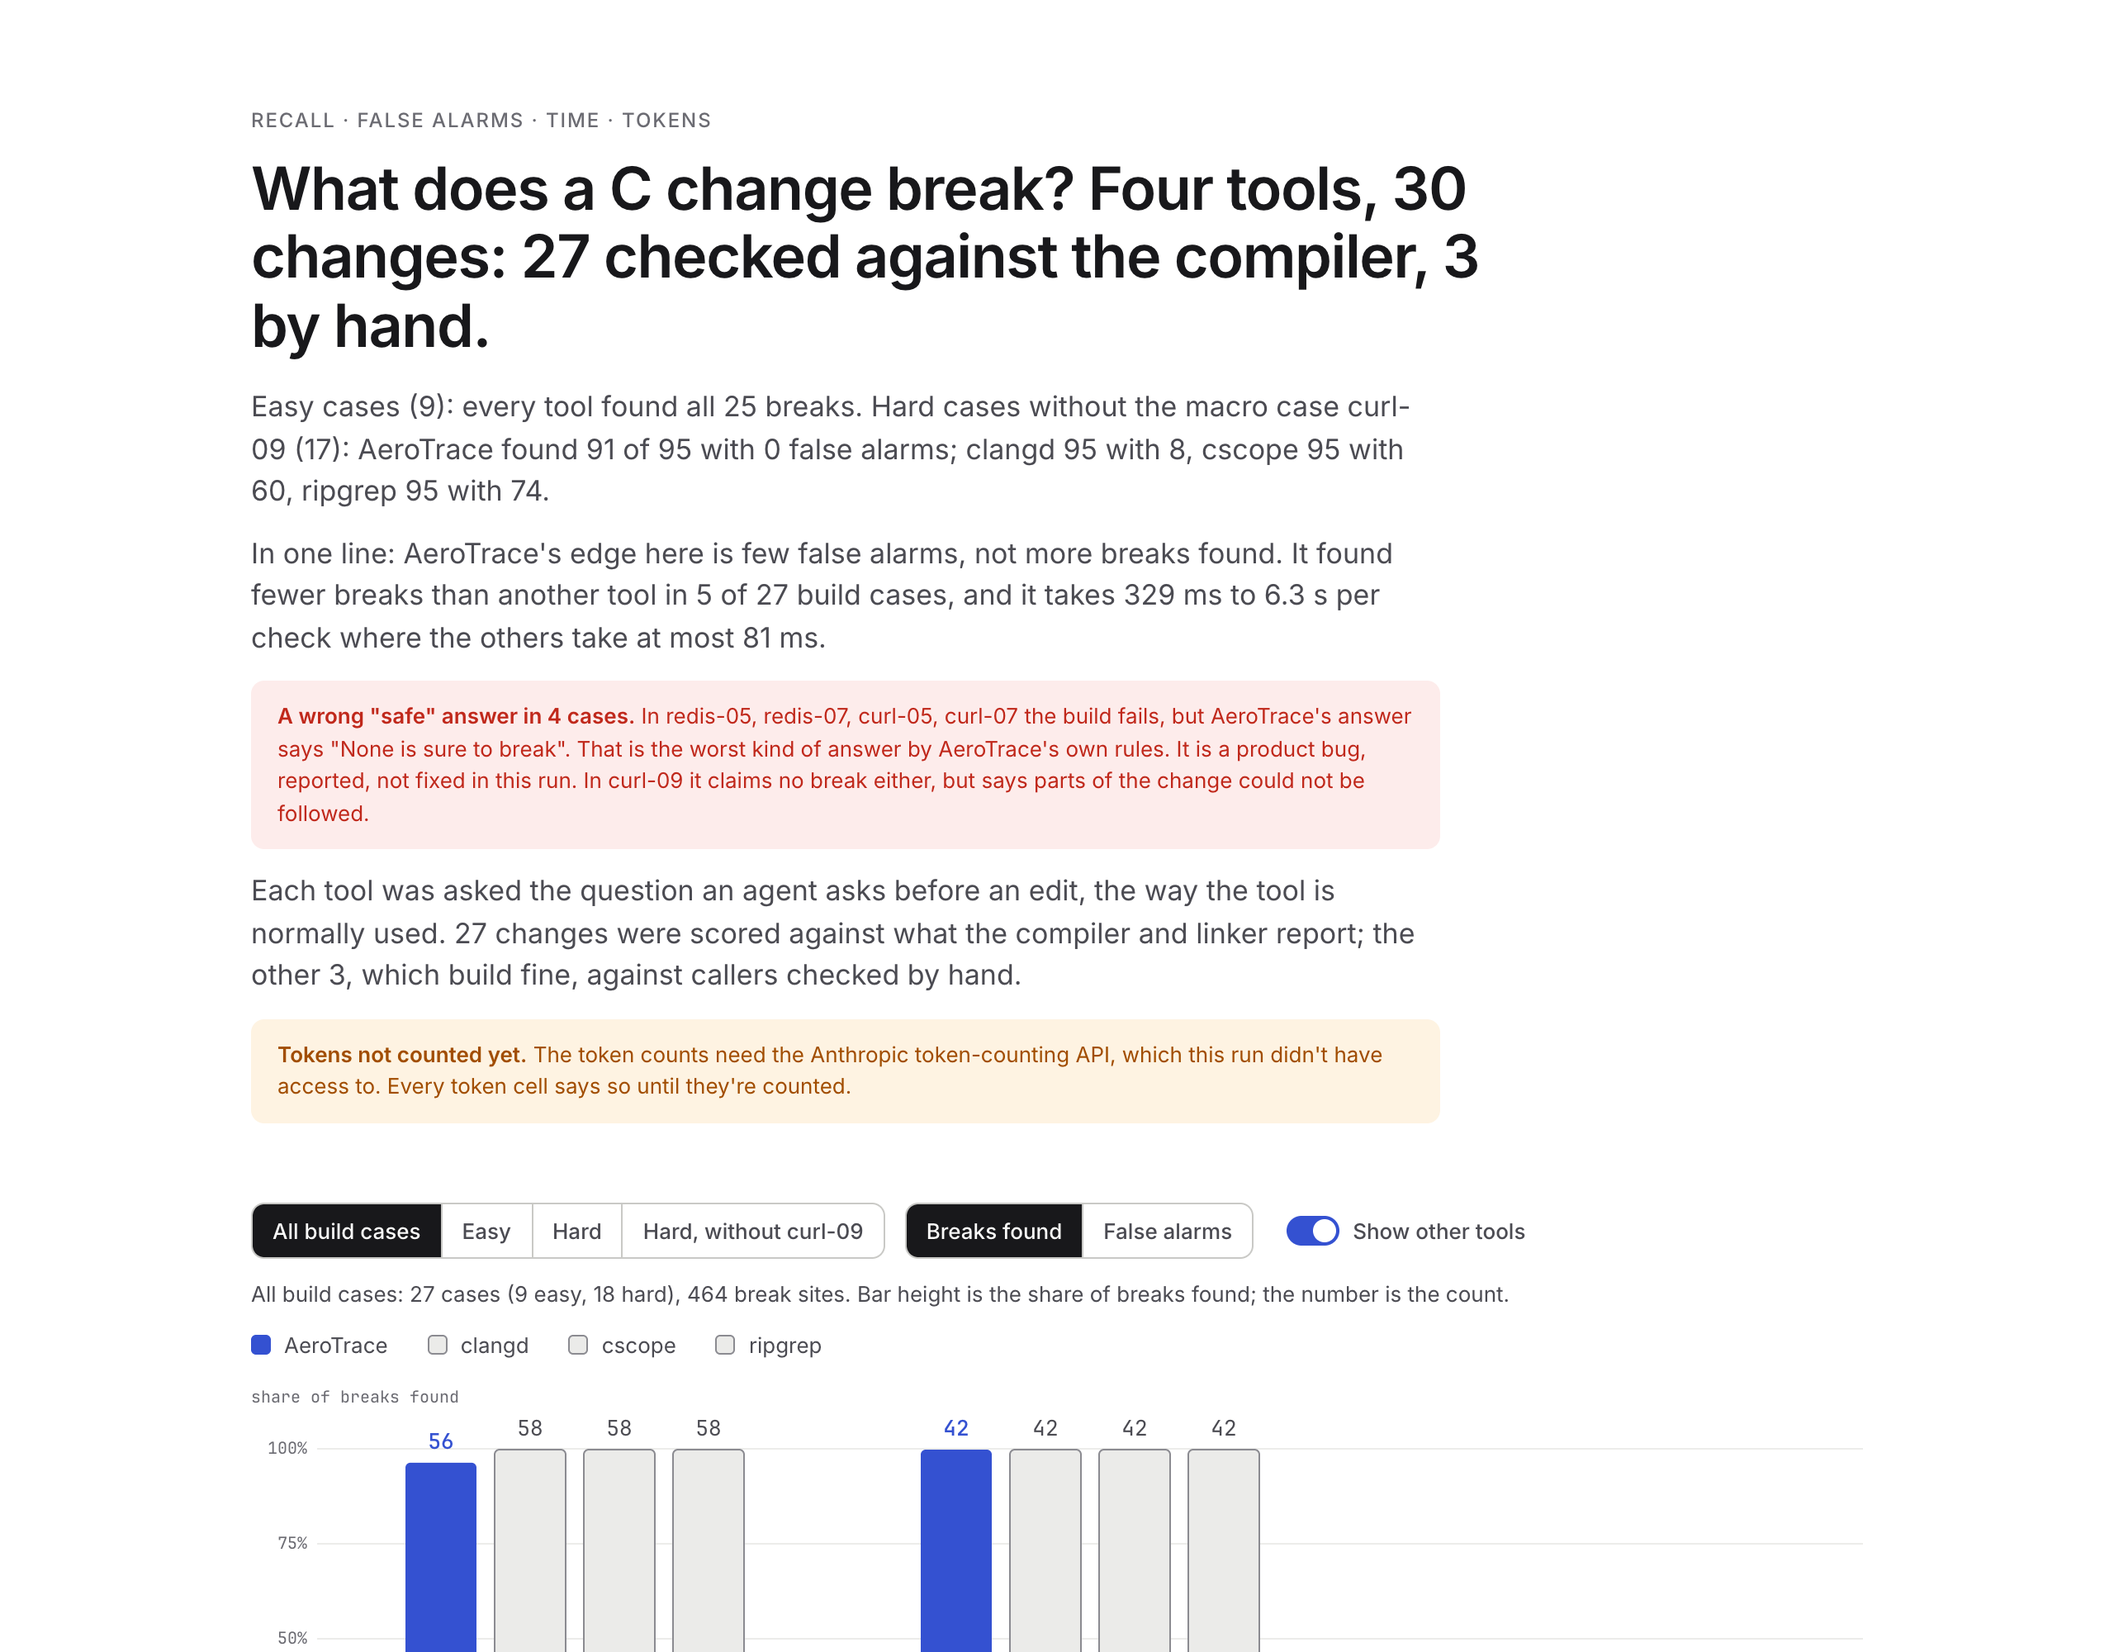
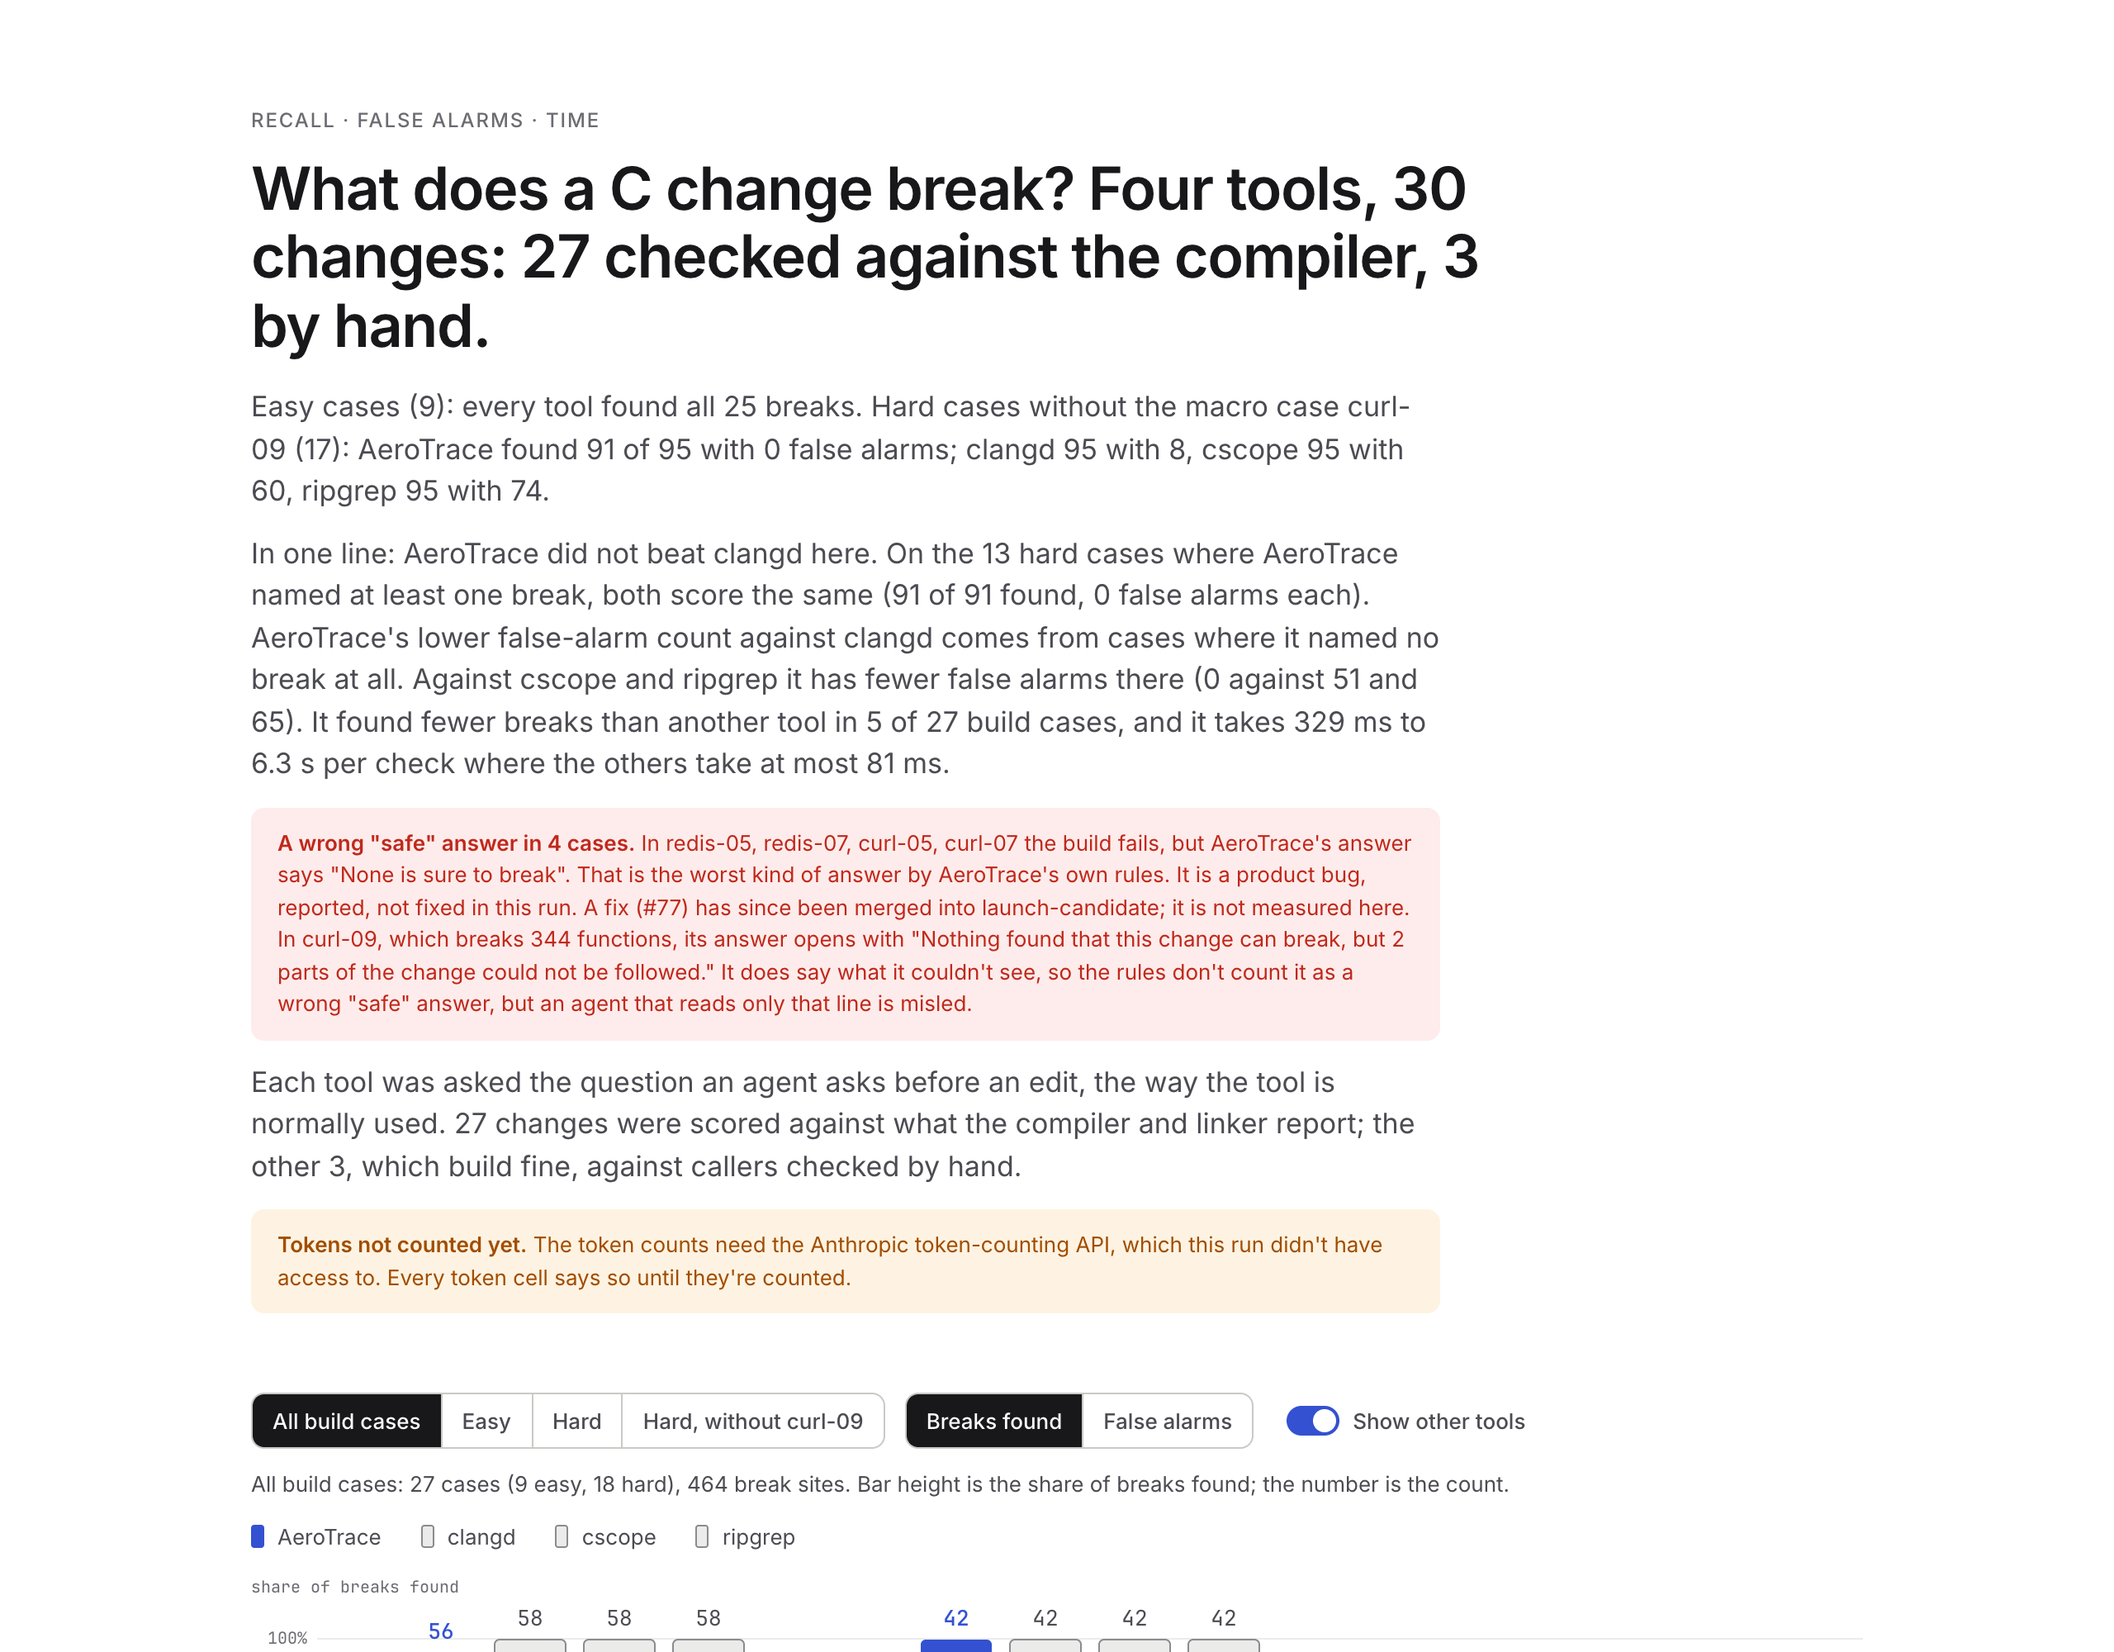
fix(ui): skeptic review: BREAKS nodes keep their names, real dates on the demo checks, QA report

Changed region(s): [[0.0938, 0.31, 0.7188, 1.0], [0.4688, 0.992, 0.5938, 1.0], [0.125, 0.93, 0.1562, 0.961]]

diff --git a/src/aerotrace/ui/web/graph.js b/src/aerotrace/ui/web/graph.js
@@ -288,6 +288,20 @@
         if (r.x < 4 || r.y < 4 || r.x + r.w > w - 4 || r.y + r.h > h - 4) continue;
         if (!occupied.hits(r)) spot = r;
       }
+      var lead = false;
+      if (!spot && n.group === "breaks") {  // a BREAKS node keeps its name: try spots further out
+        [2.2, 3.4, 4.8].forEach(function (k) {
+          if (spot) return;
+          var far = [[q[0] - tw / 2, q[1] + o * k], [q[0] - tw / 2, q[1] - o * k - th], [q[0] + o * k, q[1] - th / 2],
+            [q[0] - o * k - tw, q[1] - th / 2], [q[0] + o * k * 0.7, q[1] + o * k * 0.7], [q[0] - o * k * 0.7 - tw, q[1] + o * k * 0.7],
+            [q[0] + o * k * 0.7, q[1] - o * k * 0.7 - th], [q[0] - o * k * 0.7 - tw, q[1] - o * k * 0.7 - th]];
+          for (var j = 0; j < far.length && !spot; j++) {
+            var r2 = { x: far[j][0] - 3, y: far[j][1] - 1, w: tw + 6, h: th + 2 };
+            if (r2.x < 4 || r2.y < 4 || r2.x + r2.w > w - 4 || r2.y + r2.h > h - 4) continue;
+            if (!occupied.hits(r2)) { spot = r2; lead = true; }
+          }
+        });
+      }
       var forced = false;
       if (!spot && must) {  // always shown, kept inside the canvas
         var fx = Math.max(4, Math.min(w - tw - 10, cands[0][0] - 3)), fy = Math.max(4, Math.min(h - th - 6, cands[0][1] - 1));
@@ -295,9 +309,14 @@
         forced = true;
       }
       if (!spot) { hidden++; return; }
-      rects.push({ x: spot.x, y: spot.y, w: spot.w, h: spot.h, forced: forced });
+      rects.push({ x: spot.x, y: spot.y, w: spot.w, h: spot.h, forced: forced, id: n.id, group: n.group });
       occupied.add(spot);
       placed++;
+      if (lead) {  // a thin line from the node to its label, which sits further out
+        var lx = Math.max(spot.x, Math.min(q[0], spot.x + spot.w)), ly = Math.max(spot.y, Math.min(q[1], spot.y + spot.h));
+        g.strokeStyle = "#ffb3ab"; g.globalAlpha = 0.6; g.lineWidth = 1; g.setLineDash([]);
+        g.beginPath(); g.moveTo(q[0], q[1]); g.lineTo(lx, ly); g.stroke(); g.globalAlpha = 1;
+      }
       g.fillStyle = "rgba(11,13,16,0.82)"; g.fillRect(spot.x, spot.y, spot.w, spot.h);
       g.fillStyle = n.group === "breaks" ? "#ffb3ab" : n.group === "may_break" ? "#fcd57a" : c.label;
       g.textAlign = "left"; g.textBaseline = "middle"; g.fillText(label, spot.x + 3, spot.y + spot.h / 2 + 0.5);
@@ -305,6 +324,7 @@
     this.hits = hits;
     this.stats.labels = placed;
     this.stats.labelRects = rects;
+    this.stats.breaksOnScreen = want.filter(function (p) { return p.n.group === "breaks"; }).length;
     this.stats.hiddenLabels = hidden;
     if (moving && !this._settle) this._settle = setTimeout(function () { self._settle = 0; self.draw(); }, 170);
     this.stats.frames++;

diff --git a/tests/ui/test_dashboard_browser.py b/tests/ui/test_dashboard_browser.py
@@ -47,7 +47,14 @@ def _repo(tmp: Path, checks: dict[str, dict]) -> Path:
 
 @pytest.fixture
 def dash(tmp_path: Path) -> Iterator[tuple[server.DashboardServer, Path]]:
-    root = _repo(tmp_path, {"0001-aaaa0001": samples.big(1000), "0002-aaaa0002": samples.big(5000, seed=3)})
+    root = _repo(
+        tmp_path,
+        {
+            "0001-aaaa0001": samples.big(1000),
+            "0002-aaaa0002": samples.big(5000, seed=3),
+            "0003-aaaa0003": samples.sample(),
+        },
+    )
     srv = server.DashboardServer(root)
     threading.Thread(target=srv.serve_forever, daemon=True).start()
     yield srv, root
@@ -122,6 +129,20 @@ def test_labels_never_overlap_or_cover_the_controls(browser, dash, cid: str, gro
             assert not any(hit(a, b) for b in rects[i + 1 :]), "two labels overlap"
             assert not any(hit(a, b) for b in boxes), "a label covers the legend, hint or tools"
     ctx.close()
+
+
+def test_every_breaks_node_has_its_name_when_there_is_room(browser, dash) -> None:
+    """A small check, like most real ones: every BREAKS node on screen is labelled (no overlap either)."""
+    srv, _ = dash
+    ctx, pg, _ = _page(browser, srv)
+    pg.goto(_base(srv) + "#/graph/0003-aaaa0003")
+    pg.wait_for_selector(".stage canvas", timeout=15000)
+    pg.wait_for_timeout(300)
+    stats = pg.evaluate("() => window.__aerotraceGraph")
+    ctx.close()
+    named = {r["id"] for r in stats["labelRects"] if r["group"] == "breaks"}
+    assert stats["breaksOnScreen"] > 0
+    assert len(named) == stats["breaksOnScreen"], "a BREAKS node on screen has no label"
 
 
 def test_a_slow_page_never_replaces_the_current_one(browser, dash) -> None:

diff --git a/bench/ui/launch_screenshots.py b/bench/ui/launch_screenshots.py
@@ -2,7 +2,7 @@
 
 Usage: uv run --with playwright python bench/ui/launch_screenshots.py <demo-repo>
 <demo-repo>: a repo with an AeroTrace index and saved checks (the Redis 8.10.3 demo: pinned release,
-indexed, three real `aerotrace check` answers on benchmark patches, see docs/launch/screenshots/README.md).
+indexed, three answers saved by `aerotrace check --patch` itself (#80), with their real dates, see docs/launch/screenshots/README.md).
 
 Refuses any page marked as sample data (`data-sample`), so no mockup can end up here. Every image in the
 manifest names the data it shows by sha256: the results page's `results.json`, or a snapshot of what
@@ -24,7 +24,7 @@ from aerotrace.ui import api, server
 ROOT = Path(__file__).resolve().parents[2]
 OUT = ROOT / "docs" / "launch" / "screenshots"
 RUN = ROOT / "bench" / "results" / "2026-11-24-c7df917"
-CHECK = "0003-redis-04"
+SHOWN = "patch redis-04.diff"  # the check shown in the Graph screenshot, found by its source
 
 
 def sha(data: bytes) -> str:
@@ -48,6 +48,7 @@ def main() -> None:
     demo = Path(sys.argv[1]).resolve()
     OUT.mkdir(parents=True, exist_ok=True)
     images = []
+    CHECK = next(c["id"] for c in api.checks(demo)["checks"] if c.get("source") == SHOWN)
     ov = snapshot("overview.json", {"overview": api.overview(demo), "runinfo": api.runinfo(demo)})
     gr = snapshot(f"graph-{CHECK}.json", api.graph(demo, CHECK))
     results_sha = sha((RUN / "results.json").read_bytes())

diff --git a/docs/design/dashboard/QA.md b/docs/design/dashboard/QA.md
@@ -1,0 +1,98 @@
+# Dashboard and results page: QA (Phase 4)
+
+What was checked before launch, how, and what is still open. Numbers come from real runs on the
+machine named under each one.
+
+## Tests
+
+| What | Where | Runs in CI |
+|---|---|---|
+| API answers: overview, checks, graph, node, blind spots, broken or missing index, no machine paths | `tests/ui/test_api.py`, `tests/ui/test_api_graph.py` | yes (`test`, Linux and macOS) |
+| Server: 127.0.0.1 only, token to per-port cookie, Host/Origin/Sec-Fetch-Site checks, CSP, GET/HEAD only, no files outside `ui/web/` | `tests/ui/test_server.py` | yes (`test`) |
+| Results page: built from the run, every number traced to `results.json`, wrong "safe" cases shown, CSP | `tests/ui/test_bench_page.py` | yes (`test`) |
+| Design: contrast >= 4.5:1 in light and dark, no remote loads, fonts and licences, mockups marked as sample, launch screenshots never from mockups | `tests/ui/test_design.py` | yes (`test`) |
+| Browser: every page loads with no console errors and no network beyond 127.0.0.1; labels never overlap; slow pages never replace the current one; Esc returns focus; via loops | `tests/ui/test_dashboard_browser.py` | yes (`browser`, Linux) |
+| Visual: layout boxes and computed colours of 5 pages, light and dark, against `tests/golden/ui/` | `tests/ui/test_dashboard_visual.py` | yes (`browser`) |
+| Wheel has every web file and font, and no `bench/`, `tests/`, `docs/` | `tests/ui/test_install.py` | yes (`test`) |
+| Fresh install into a new venv serves `aerotrace ui` | `tests/ui/test_install.py` (realrepo) | yes (`realrepo`, Linux and macOS) |
+
+Visual tests compare boxes and colours, not pixels. Font rendering differs between macOS and Linux, so
+pixel diffs would fail for no reason; a moved panel or a wrong colour still fails.
+
+## Performance
+
+`bench/ui/perf.py`, synthetic checks of 1,000 and 5,000 nodes, Chrome, Apple M1 Pro
+(`perf.json`). Two seconds of wheel zoom and drag pan per row.
+
+| Nodes | View | First frame | Frame rate | Draw time avg / max |
+|---|---|---|---|---|
+| 1,000 | default (BREAKS, MAY BREAK) | 56 ms | 58.9 fps | 0.2 / 0.7 ms |
+| 1,000 | every group on | 53 ms | 60.7 fps | 0.7 / 1.4 ms |
+| 5,000 | default | 102 ms | 60.4 fps | 0.4 / 1.6 ms |
+| 5,000 | every group on | 109 ms | 60.6 fps | 1.6 / 2.6 ms |
+
+Before the fix, 5,000 nodes with every group on ran at 33-37 fps. The cause was dashed lines (measured
+by turning them off). Lines off screen are now skipped, and over 600 dashed lines are drawn solid with a
+note on screen saying so. Not measured: a slow laptop or Linux.
+
+## Accessibility
+
+- Every control has a name; checked on every page by `test_every_control_has_a_name`.
+- The keyboard reaches every control with a visible focus ring (`test_keyboard_reaches_every_control_with_visible_focus`).
+- Status chips carry their word for screen readers, not just a colour or icon.
+- The graph canvas can be focused and says the list view has every node as text. The list view is the
+  keyboard and screen-reader way through the graph.
+- Text contrast is at least 4.5:1 in both themes (tested).
+- Motion respects `prefers-reduced-motion`.
+
+Not done: picking single nodes on the canvas with the keyboard (use the list view).
+
+## Local only and read-only
+
+- The server binds 127.0.0.1, answers GET and HEAD only, and serves files only from the packaged
+  `ui/web/` folder. Source snippets come only from files in the index, resolved inside the repo.
+- CSP `default-src 'none'`; fonts and scripts are bundled. The browser test fails on any request
+  that leaves 127.0.0.1.
+- The dashboard writes nothing. `aerotrace check` writes its saved answers to `.aerotrace/checks/` (#80).
+
+## Packaging
+
+The wheel is checked in CI. A fresh install into a new venv is tested on Linux and macOS in CI, and
+locally on macOS. Nothing is fetched after install. Not tested: a Linux machine outside CI (no Docker here).
+
+## Review
+
+A skeptic review (written as a critical Hacker News reader) of the results page and the dashboard was
+run before launch. It recomputed every per-case number from the raw answers and found them right, then
+found where the page read better than the numbers. Fixed:
+
+- The headline said AeroTrace's edge is few false alarms. On the 13 hard cases where AeroTrace named at
+  least one break, it ties clangd exactly (91 of 91, 0 false alarms each); its lower count against clangd
+  comes from cases where it named no break. The page and RESULTS.md now say "AeroTrace did not beat
+  clangd here" (#74, #76; computed, with a test).
+- Medians were the upper middle value, not the median (#74, #76).
+- curl-09's answer opens with "Nothing found that this change can break" for a change that breaks 344
+  functions. The red box now quotes it (#76).
+- Caveats on the page: cases made by us, the link step ran in 4 of 27 cases, AeroTrace timed as a new
+  process against a running clangd, cscope `-L0` not `-L3`. "Tokens" left the title strip until counted.
+- `might_break.json` is now kept with the run, so the run folder holds all of its truth (#74).
+- The demo checks in the launch screenshots had dates set by hand. They were redone with the real save
+  from `aerotrace check` (#80), so every date on screen is real.
+- A BREAKS node whose label had no room nearby went unnamed. BREAKS labels now try spots further out,
+  with a thin line to the node (tested on a small check).
+- Legend swatches looked like empty check boxes; they are bar-shaped now.
+
+Not changed, and why:
+- The other tools share one grey (the owner's design); each bar has its tool name under it.
+- A cut-off verdict in the graph bar: the full text is on hover, and the chips next to it hold the counts.
+- Analysis wording (a compile error listed under "couldn't see"; "2 steps" next to "depth 5") belongs to
+  the analysis code, not the UI. Reported to the owner.
+- New benchmark cases from project history (#65), a cscope `-L3` row and token counts need a new run.
+
+## Open
+
+- The benchmark run (`bench/results/2026-11-24-c7df917`) measured AeroTrace before #77, which fixes
+  the 4 wrong "safe" answers. The page says they are not fixed in that run. A new run is needed to
+  show the fix.
+- Token counts are not on the page yet: they need Anthropic API access for the benchmark (cached).
+- Functions/data filter chips on the graph, a dark theme for the results page: not built.

diff --git a/docs/launch/screenshots/README.md b/docs/launch/screenshots/README.md
@@ -8,5 +8,7 @@ data that is not in the repo. Mockups (sample numbers) can't be screenshotted in
   `bench/results/2026-11-24-c7df917/results.json`. The page has a light theme only.
 - `overview-{light,dark}.png`, `graph-{light,dark}.png`: `aerotrace ui` on the Redis 8.10.3 demo. That
   is the pinned release (`tests/realrepo/repos.py`), built and indexed as in `bench/truth/README.md`,
-  with three real `aerotrace check --patch` answers on benchmark patches (redis-07, redis-01, redis-04).
-  The graph shows case redis-04. What the dashboard answered is in `data/`.
+  with three answers that `aerotrace check --patch` saved itself (#80) on benchmark patches (redis-07,
+  redis-01, redis-04), with the code on `launch-candidate` after #77. The dates on screen are the real
+  save times. The graph shows case redis-04. What the dashboard answered is in `data/`.
+- The graph canvas is dark in both themes by design (`docs/design/README.md`); the frame follows the theme.
